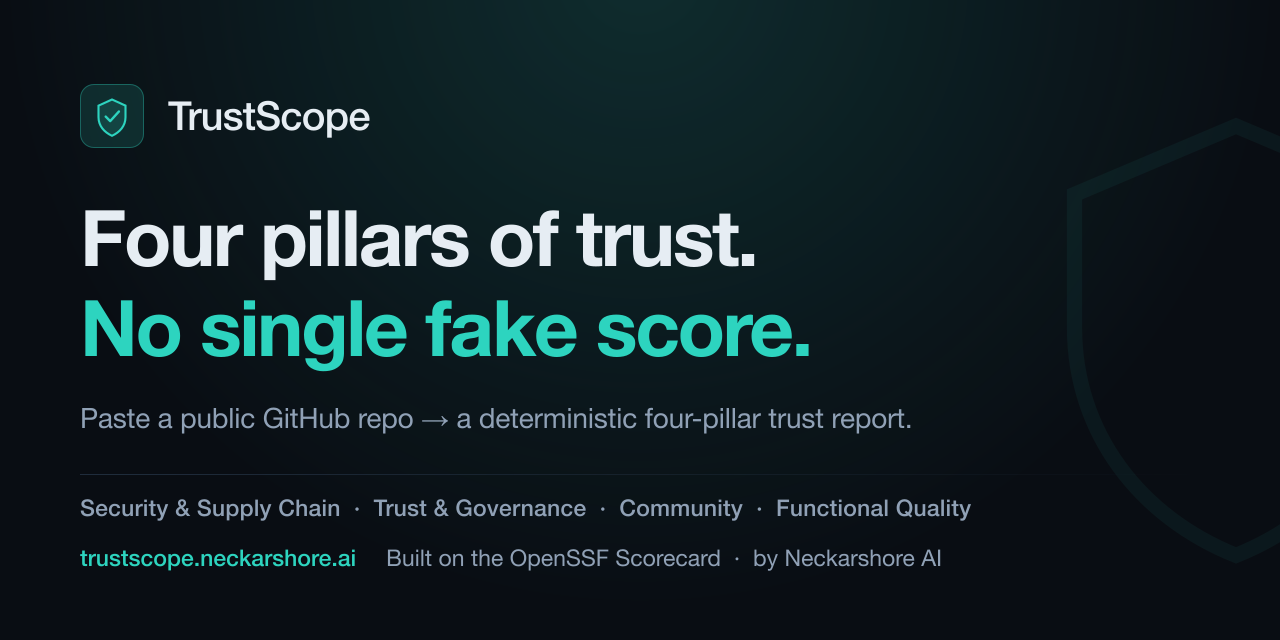
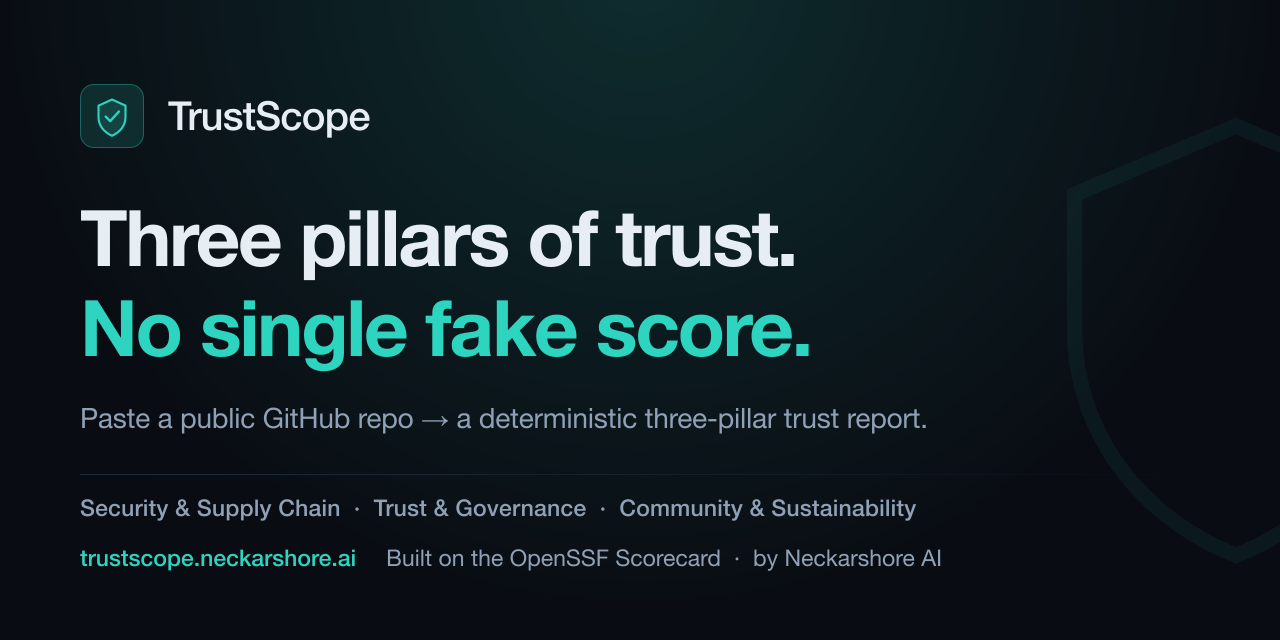
chore: three-pillar hygiene batch — reconcile stale surfaces + regen OG card (#90)
* docs(decisions): reconcile pillar record with shipped three-pillar move (#80)

Locked decision #4 still said "All four shown"; the shipped, CI-enforced
reality (#80) is three pillars free + Functional Quality Pro-only. Revised #4,
softened the "four-pillar synthesis" framings in §1/§4 to "multi-pillar (three
free)", and added §9 `TS-FQ-PRO-ONLY-THREE-PILLARS` — the section the
three-pillar guard already references but which did not exist. Record now
matches its own enforcement gate; history preserved.

Claude-Session: https://claude.ai/code/session_01CkCqdS7PkEFdnCPSqzKxue

* fix(vercel): stop auto-deploying the data-only stats-data branch

Vercel deployed the git-plumbing-built stats-data branch (tree = {stats.json},
no app) as a Preview on every stats emit → a ~5s red Error deploy per push:main
that can mask a real deploy failure. Add vercel.json git.deploymentEnabled
{ stats-data: false } — read from the production branch at webhook time, so it
gates the branch that carries no vercel.json of its own. Production unaffected.

Also pin persist-credentials: true explicitly on the emit-stats checkout — the
stats-data push path never runs in CI, so the credential dependency shouldn't
rest on an action default a future checkout major could flip.

Claude-Session: https://claude.ai/code/session_01CkCqdS7PkEFdnCPSqzKxue

* docs(hygiene): reconcile stale 'pending/deferred' text with shipped reality

Five verified-done tasks whose describing text still read as open, misleading a
[…]

Changed region(s): [[0.0625, 0.3125, 0.625, 0.4375], [0.5, 0.625, 0.7188, 0.6875], [0.5625, 0.7812, 0.7812, 0.8125]]

diff --git a/config/product.ts b/config/product.ts
@@ -1,6 +1,6 @@
 /**
  * Central product identity. Rename = change one place (work-order §3 #4/#5).
- * "TrustScope" is a working title; the subdomain is a launch-gated User-Action (§7).
+ * "TrustScope" is a working title; the subdomain (trustscope.neckarshore.ai) is live in production.
  */
 export const PRODUCT_NAME = "TrustScope";
 export const PRODUCT_TAGLINE =

diff --git a/DECISIONS.md b/DECISIONS.md
@@ -10,13 +10,13 @@ internal, Founder-decided v1 build work-order (#274).
 | 1 | Audience | **Adopter/Evaluator** — someone vetting a *third-party* tool before adopting it. Not the maintainer/badge path (that competes with OpenSSF's own badge). |
 | 2 | Format | **Web report-generator** — repo URL in → report out. |
 | 3 | Depth | **Deterministic-pure — no LLM, no API key.** Rule-based fix text from the Hardening Standard §3. |
-| 4 | Pillars | **All four shown.** P1 full Scorecard · P2 Trust/Governance · P3 lifecycle. **P4 = "not assessed" — never faked** (trails by number so N/A never leads). **No single aggregate score.** |
+| 4 | Pillars | **Three pillars shown; Functional Quality is Pro-only.** P1 Security & Supply Chain (full Scorecard) · P2 Trust & Governance · P3 Community & Sustainability (lifecycle). **P4 Functional Quality = Pro-only — dropped from every free surface, never faked. No single aggregate score.** _(Revised 2026-07-11 (#80) — originally "All four shown"; see §9.)_ |
 | 5 | Third-party posture | **Constructive + consent.** Offer to file a constructive fix-issue upstream. |
 | 6 | Fix-issue mechanism | **File via GitHub OAuth AS THE USER** (the issue is the user's own action) with a "via TrustScope" footer. **Bot-identity forbidden** — unsolicited bot-issues break consent. |
 
-**Reputation mechanism:** the four-pillar synthesis is the visible differentiator beyond raw
-Scorecard, and the "via TrustScope" constructive issues put Neckarshore's name on concrete
-improvements to real projects. Both are foregrounded in the UI, not footnoted.
+**Reputation mechanism:** the multi-pillar synthesis (three pillars free) is the visible
+differentiator beyond raw Scorecard, and the "via TrustScope" constructive issues put Neckarshore's
+name on concrete improvements to real projects. Both are foregrounded in the UI, not footnoted.
 
 ## 2. Org-home = `neckarshore-mmps/trustscope`
 
@@ -51,7 +51,7 @@ infrastructure seams are scalable from the start; v2 is pure ADD.
 - **Decision:** the `ReportModel.aggregateScore` is always `null`; per-pillar scores only.
 - **Rationale:** framework doctrine. Each pillar answers a different question; a lone number hides
   the trade-off an adopter is weighing (a secure solo-maintained library is not "7/10").
-- **Affects:** the UI foregrounds the four-pillar rationale; there is no place a mean-of-means could leak in.
+- **Affects:** the UI foregrounds the multi-pillar rationale (three pillars free); there is no place a mean-of-means could leak in.
 
 ## 5. Scorecard runner: fast-path → Docker (dev) / binary (prod)
 
@@ -100,3 +100,23 @@ infrastructure seams are scalable from the start; v2 is pure ADD.
   standard's uniform *in-app-changelog sourcing* rule (md-viewer uses a build-time base64 embed; this is
   the Server-Component-parse variant for framework apps). The estate-wide decision remains **MASCHIN +
   Founder** to ratify; TrustScope proves one pattern. Founder-approved 2026-07-11 (this session).
+
+## 9. Functional Quality is Pro-only — three pillars free (`TS-FQ-PRO-ONLY-THREE-PILLARS`)
+
+- **Decision:** the **free** report assesses **three** pillars — P1 Security & Supply Chain · P2 Trust &
+  Governance · P3 Community & Sustainability. **P4 Functional Quality is Pro-only**: it stays in the
+  internal data model but is dropped from *every* free surface (the pillar itself and its due-diligence
+  signals), never shown as a faked or "not assessed" score. **No single aggregate score** still holds.
+  Shipped 2026-07-11 ([#80](https://github.com/neckarshore-mmps/trustscope/pull/80)); this **supersedes
+  the original locked decision #4 ("All four shown, P4 = not assessed")**.
+- **Rationale:** a visible "not assessed" fourth pillar read as an unfinished report rather than a
+  deliberate scope line. Functional Quality is a hands-on judgement that belongs to the paid tier, so it
+  is withheld cleanly rather than shown empty — the free report is honestly *complete at three pillars*,
+  not *four-minus-one*. Keeping P4 in the data model preserves the AP-1 Pro seam (pure ADD, no rewrite).
+- **Affects:** `displayPillars` / `displayDueDiligence` (`lib/report-display.ts`) filter
+  `PRO_ONLY_PILLAR` out of every non-Pro surface; a **CI grep-gate** (`scripts/three-pillar-guard.sh`)
+  fails any build that leaks a user-facing "four-pillar" string into `app/`, `config/`, or `public/`.
+  The one remaining deliberate, Founder-gated exclusion from that gate is `CHANGELOG.md` release history
+  (`T-TS-CHANGELOG-FOUR-PILLAR`, a retroactive-edit Founder call). The static OG/Twitter assets were
+  regenerated to three pillars (2026-07-12, `T-TS-OG-IMAGE-THREE-PILLAR` done) and are no longer excluded.
+  Building the Pro tier itself (pricing, gating, the P4 computation path) remains a deferred v2 ADD (§3).

diff --git a/assets/README.md b/assets/README.md
@@ -1,0 +1,22 @@
+# Assets — social preview card
+
+`social-preview.svg` is the **editable master** for the Open Graph / Twitter card. The three
+rendered PNGs are generated from it, never hand-edited:
+
+- `social-preview.png` — the master's rendered copy (kept here for reference)
+- `../app/opengraph-image.png` — served as the site OG image
+- `../app/twitter-image.png` — served as the Twitter card (identical bytes)
+
+## Regenerate after editing the SVG
+
+Rendered with **librosvg** (`rsvg-convert`, `brew install librsvg`) — the byte-faithful renderer the
+card was authored with (Chromium/other renderers shift the font weight):
+
+```bash
+rsvg-convert -w 1280 -h 640 assets/social-preview.svg -o assets/social-preview.png
+cp assets/social-preview.png app/opengraph-image.png
+cp assets/social-preview.png app/twitter-image.png
+```
+
+Then update the two `../app/*-image.alt.txt` files to match the new copy. The three-pillar CI guard
+(`scripts/three-pillar-guard.sh`) fails the build if a "four-pillar" string reaches the alt text.

diff --git a/docs/token-rotation-runbook.md b/docs/token-rotation-runbook.md
@@ -15,16 +15,21 @@ revoked, on-demand reports fail with a 401 ("Couldn't generate the report").
 - Script: `scripts/token-health-check.sh` — renders an on-demand report on production and fails if it
   401s / doesn't render. It rotates through on-demand (fast-path-404) repos by weekday so each is hit
   ~weekly, well after its 24 h cache expired — guaranteeing a real on-demand run that exercises the token.
-- **Alert channel:** a failed run triggers GitHub's default Actions failure notifications (email to
-  repo watchers / admins) and a red mark in the Actions tab.
+- **Alert channel:** a failed run **opens or updates a GitHub Issue** via
+  `scripts/token-health-issue.sh` (shipped 2026-07-02; see `docs/token-health-enhancement.md`), and
+  auto-closes it when the token is healthy again. GitHub's default Actions failure notifications + the
+  red mark in the Actions tab remain as a backstop.
 
-### 👤 OWNER — confirm cadence + channel
+### 👤 OWNER — cadence + channel (no setup required)
 
 - **Cadence:** daily is the default. Adjust the `cron` in `token-health.yml` if you want more/less.
-- **Channel:** GitHub's default email/UI is on with no setup. If you want push alerts (Slack/Discord/
-  email-to-a-list), add a notify step — otherwise no action needed.
-- **Optional:** set a calendar reminder for the PAT's own expiry date (the health-check catches
-  expiry *reactively*; a reminder lets you rotate *before* an outage).
+- **Channel:** the GitHub-Issue alert is on with no setup. A 14-day expiry pre-warning also opens an
+  Issue before the two **E2E test PATs** (`E2E_CLASSIC_PAT` / `E2E_FINEGRAINED_PAT`) lapse — this does
+  **not** cover the production `GITHUB_AUTH_TOKEN` (stored in Vercel), whose expiry stays *reactive-only*
+  (the health-check catches it after it fails); rotate it via the calendar-reminder path below. If you
+  additionally want push alerts (Slack/Discord), add a notify step.
+- **Optional:** set a calendar reminder for the PAT's own expiry date. The health-check catches
+  expiry *reactively* and the pre-warning gives 14 days' lead; a calendar reminder is belt-and-braces.
 
 ## Rotation procedure (when expiring / expired / compromised)
 

diff --git a/docs/repo-selection-recently-viewed-plan.md b/docs/repo-selection-recently-viewed-plan.md
@@ -1,5 +1,14 @@
 # Repo selection (combobox) + Recently-Viewed — Implementation Plan
 
+> **Status: SHIPPED** — [PR #42](https://github.com/neckarshore-mmps/trustscope/pull/42) (`40eed0d`),
+> revised by [PR #73](https://github.com/neckarshore-mmps/trustscope/pull/73) (`74fa5e9`). All phases
+> below are implemented on `main`. **#73 changed the behavior:** selecting a repo now **fills the
+> input** over a **server-rendered** default list — it no longer auto-assesses, superseding the
+> auto-assess-on-select flow the steps describe. Automated gates green (Vitest + tsc + 7 Playwright
+> picker tests incl. keyboard semantics). Combobox a11y keyboard walk + visual-accept are the open
+> manual items (tracked separately). Plan-review open items 1 (ordering pinned→recent→A-Z) and 3
+> (Playwright-only gating) shipped as proposed. Kept as the record; unchecked boxes = plan-as-written.
+>
 > **For agentic workers:** REQUIRED SUB-SKILL: Use superpowers:subagent-driven-development (recommended) or superpowers:executing-plans to implement this plan task-by-task. Steps use checkbox (`- [ ]`) syntax for tracking.
 
 **Goal:** Turn the plain repo input into an accessible, searchable combobox (seeds + your recently-viewed, free entry preserved) and add a client-local Recently-Viewed strip on the landing page.

diff --git a/docs/token-health-enhancement.md b/docs/token-health-enhancement.md
@@ -1,8 +1,13 @@
-# Token-Health enhancement — build spec (next session)
+# Token-Health enhancement — build spec
+
+> **Status: SHIPPED (2026-07-02).** Both changes below are live in `token-health.yml`:
+> the failed-check alert now opens/updates a GitHub Issue via `scripts/token-health-issue.sh`
+> (section b), and a 14-day expiry pre-warning runs against the E2E PATs. Kept as the durable
+> spec of record. Original framing ("build spec (next session)") preserved below for history.
 
 Enhances the existing daily token-health monitoring (workflow `token-health.yml`,
 script `token-health-check.sh`, shipped in PR #16) with two Founder-requested changes.
-**Deferred to a fresh session by design** (context budget); this is the durable spec so it
+~~**Deferred to a fresh session by design** (context budget)~~; this is the durable spec so it
 can be built without re-deriving. Owner decided the alert channel + supplied the token data below.
 
 ## b — Alert as a repo Issue, not email (Founder preference)

diff --git a/docs/due-diligence-install-scripts-plan.md b/docs/due-diligence-install-scripts-plan.md
@@ -1,5 +1,12 @@
 # Due-Diligence install-scripts signal — Implementation Plan
 
+> **Status: SHIPPED** — [PR #43](https://github.com/neckarshore-mmps/trustscope/pull/43) (`8ade79a`).
+> All phases below are implemented on `main`: the manifest adapter, the due-diligence signal,
+> `buildReport`/`generateReport` wiring, the e2e assertion, and the README note (which links to the
+> **Security & Supply Chain / Pillar 1** section — `#pillar-1` post-[#74](https://github.com/neckarshore-mmps/trustscope/pull/74), not the `#pillar-2` the steps predate). Automated gates green (Vitest + tsc + Playwright). Founder
+> visual-accept of the report note is the one open manual item (tracked separately). Kept as the
+> record of what shipped; the unchecked boxes reflect the plan-as-written, not remaining work.
+>
 > **For agentic workers:** REQUIRED SUB-SKILL: Use superpowers:subagent-driven-development (recommended) or superpowers:executing-plans to implement this plan task-by-task. Steps use checkbox (`- [ ]`) syntax for tracking.
 
 **Goal:** Add one calm Due-Diligence signal — a note when a package declares npm install-time lifecycle scripts (`preinstall`/`install`/`postinstall`).

diff --git a/docs/e2e-contract-test.md b/docs/e2e-contract-test.md
@@ -23,6 +23,11 @@ Reference behavior measured 2026-07-02 (scorecard 5.5.0 / dataset image v5.1.1):
 
 ## 👤 OWNER — one-time setup: two repo secrets
 
+> **Status: DONE (2026-07-03).** Both secrets (`E2E_CLASSIC_PAT`, `E2E_FINEGRAINED_PAT`) are set;
+> the nightly contract run has been green since. A 14-day expiry pre-warning (`token-health.yml`)
+> opens an Issue before either PAT lapses. The steps below are kept as the rotation reference for
+> when a token expires or is replaced.
+
 The test only runs once both secrets exist; until then it self-skips (green).
 
 ### 1. Create the two tokens